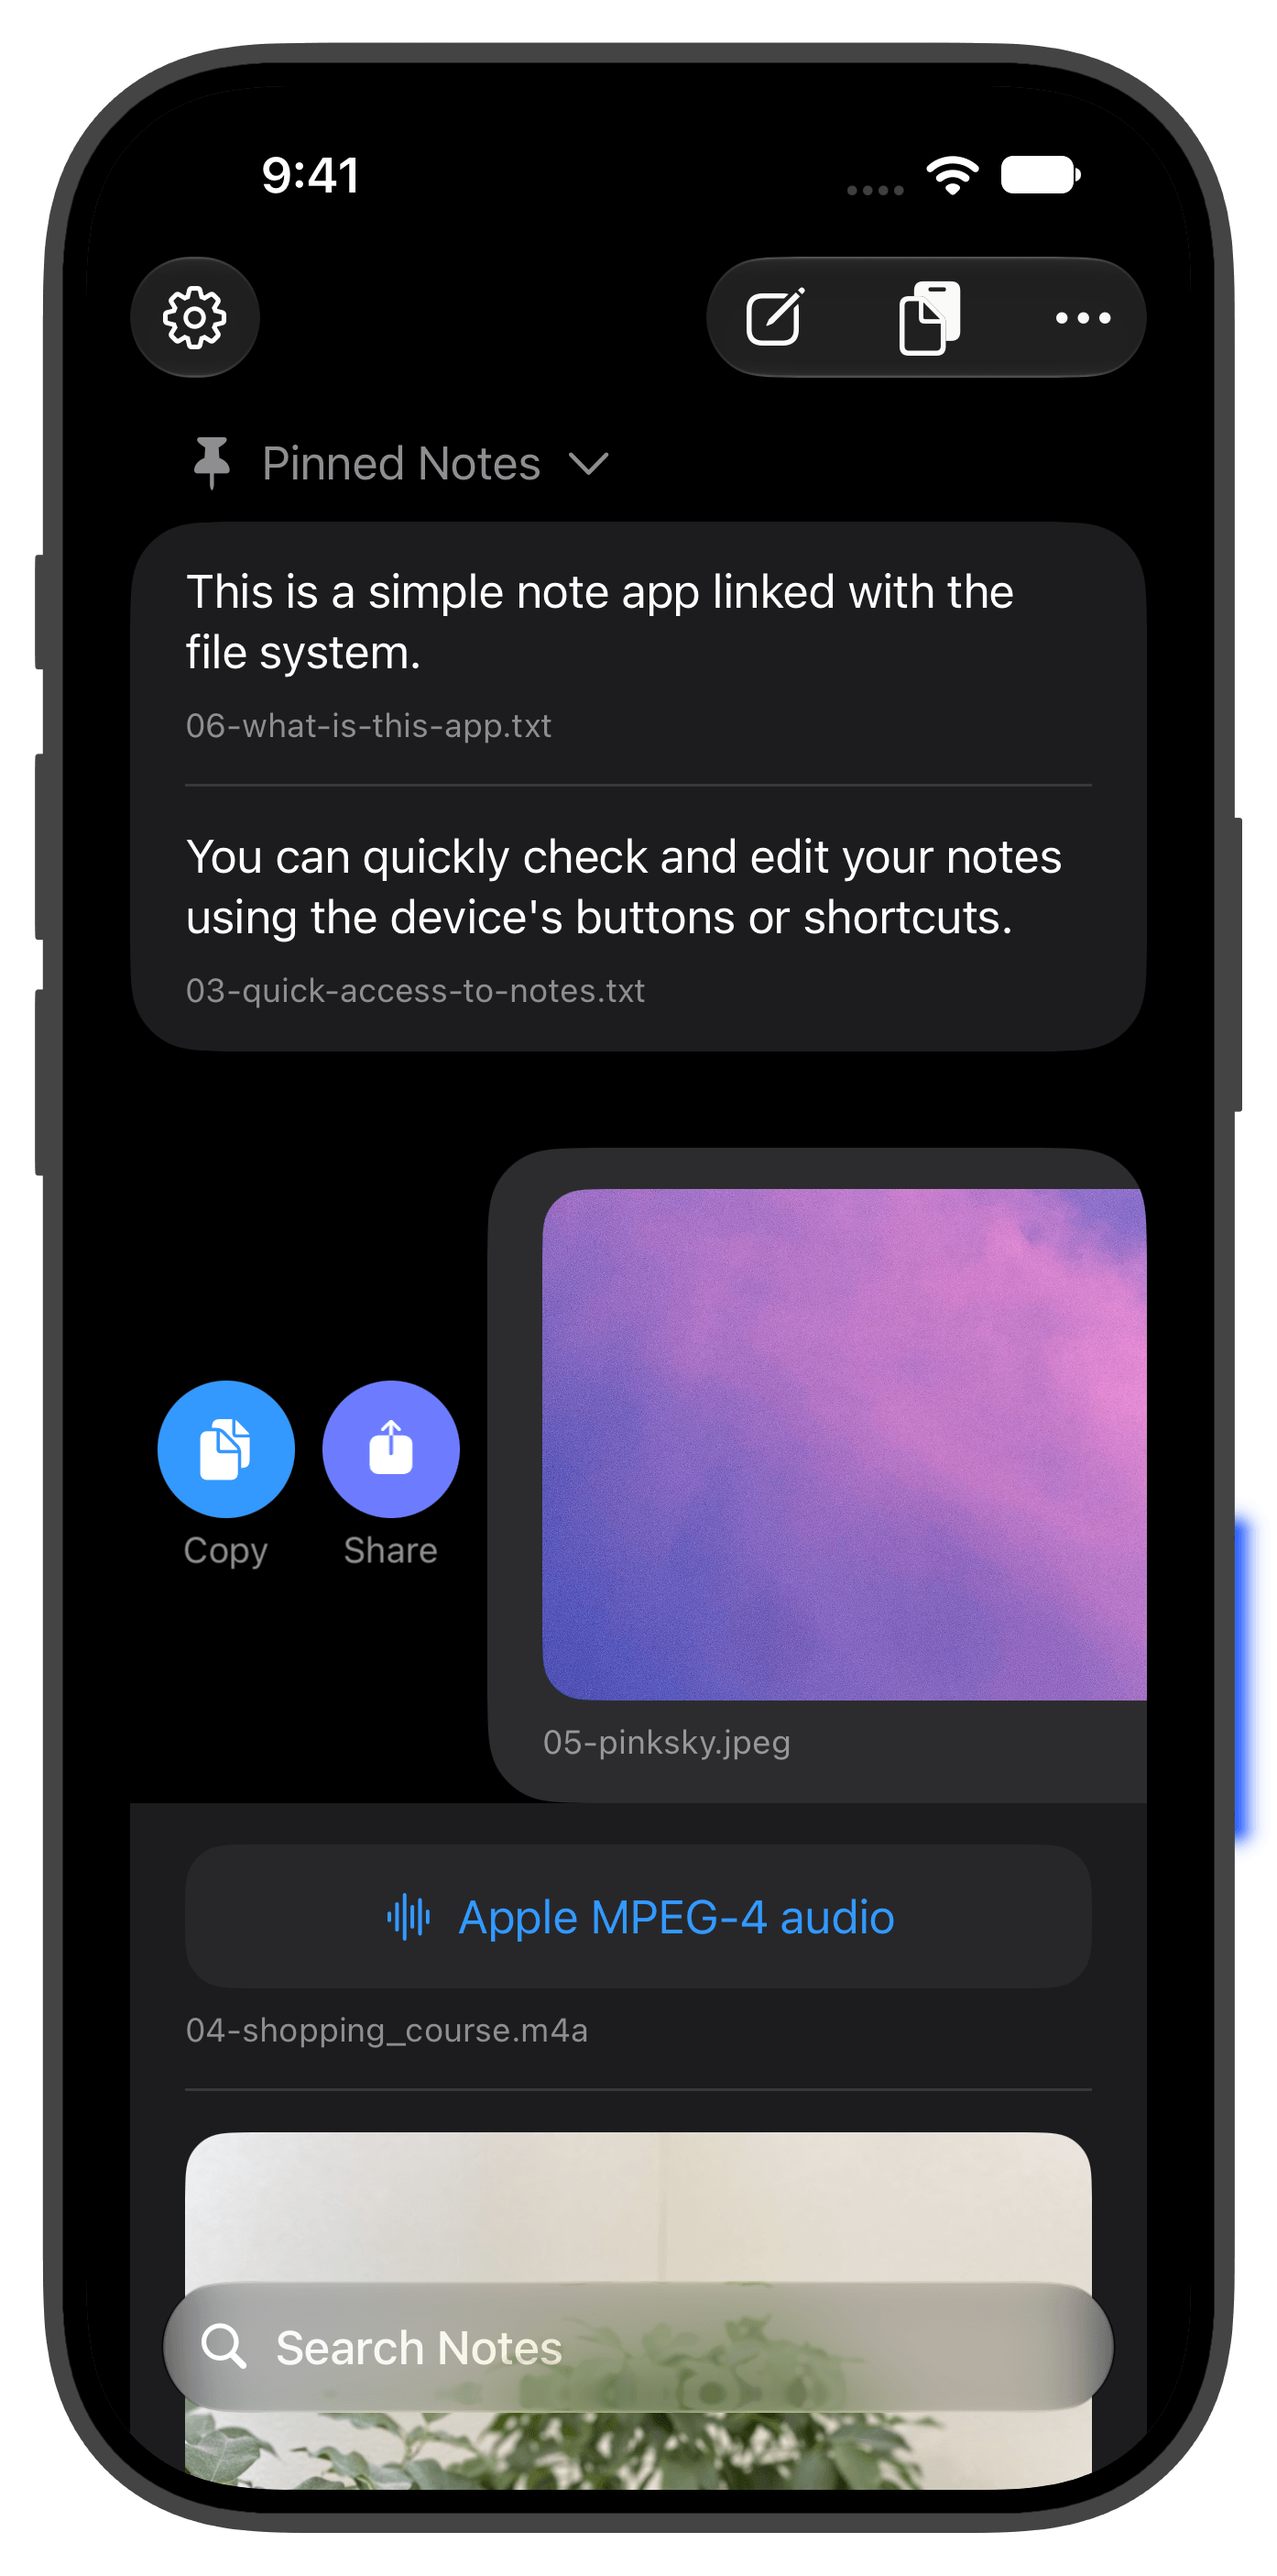
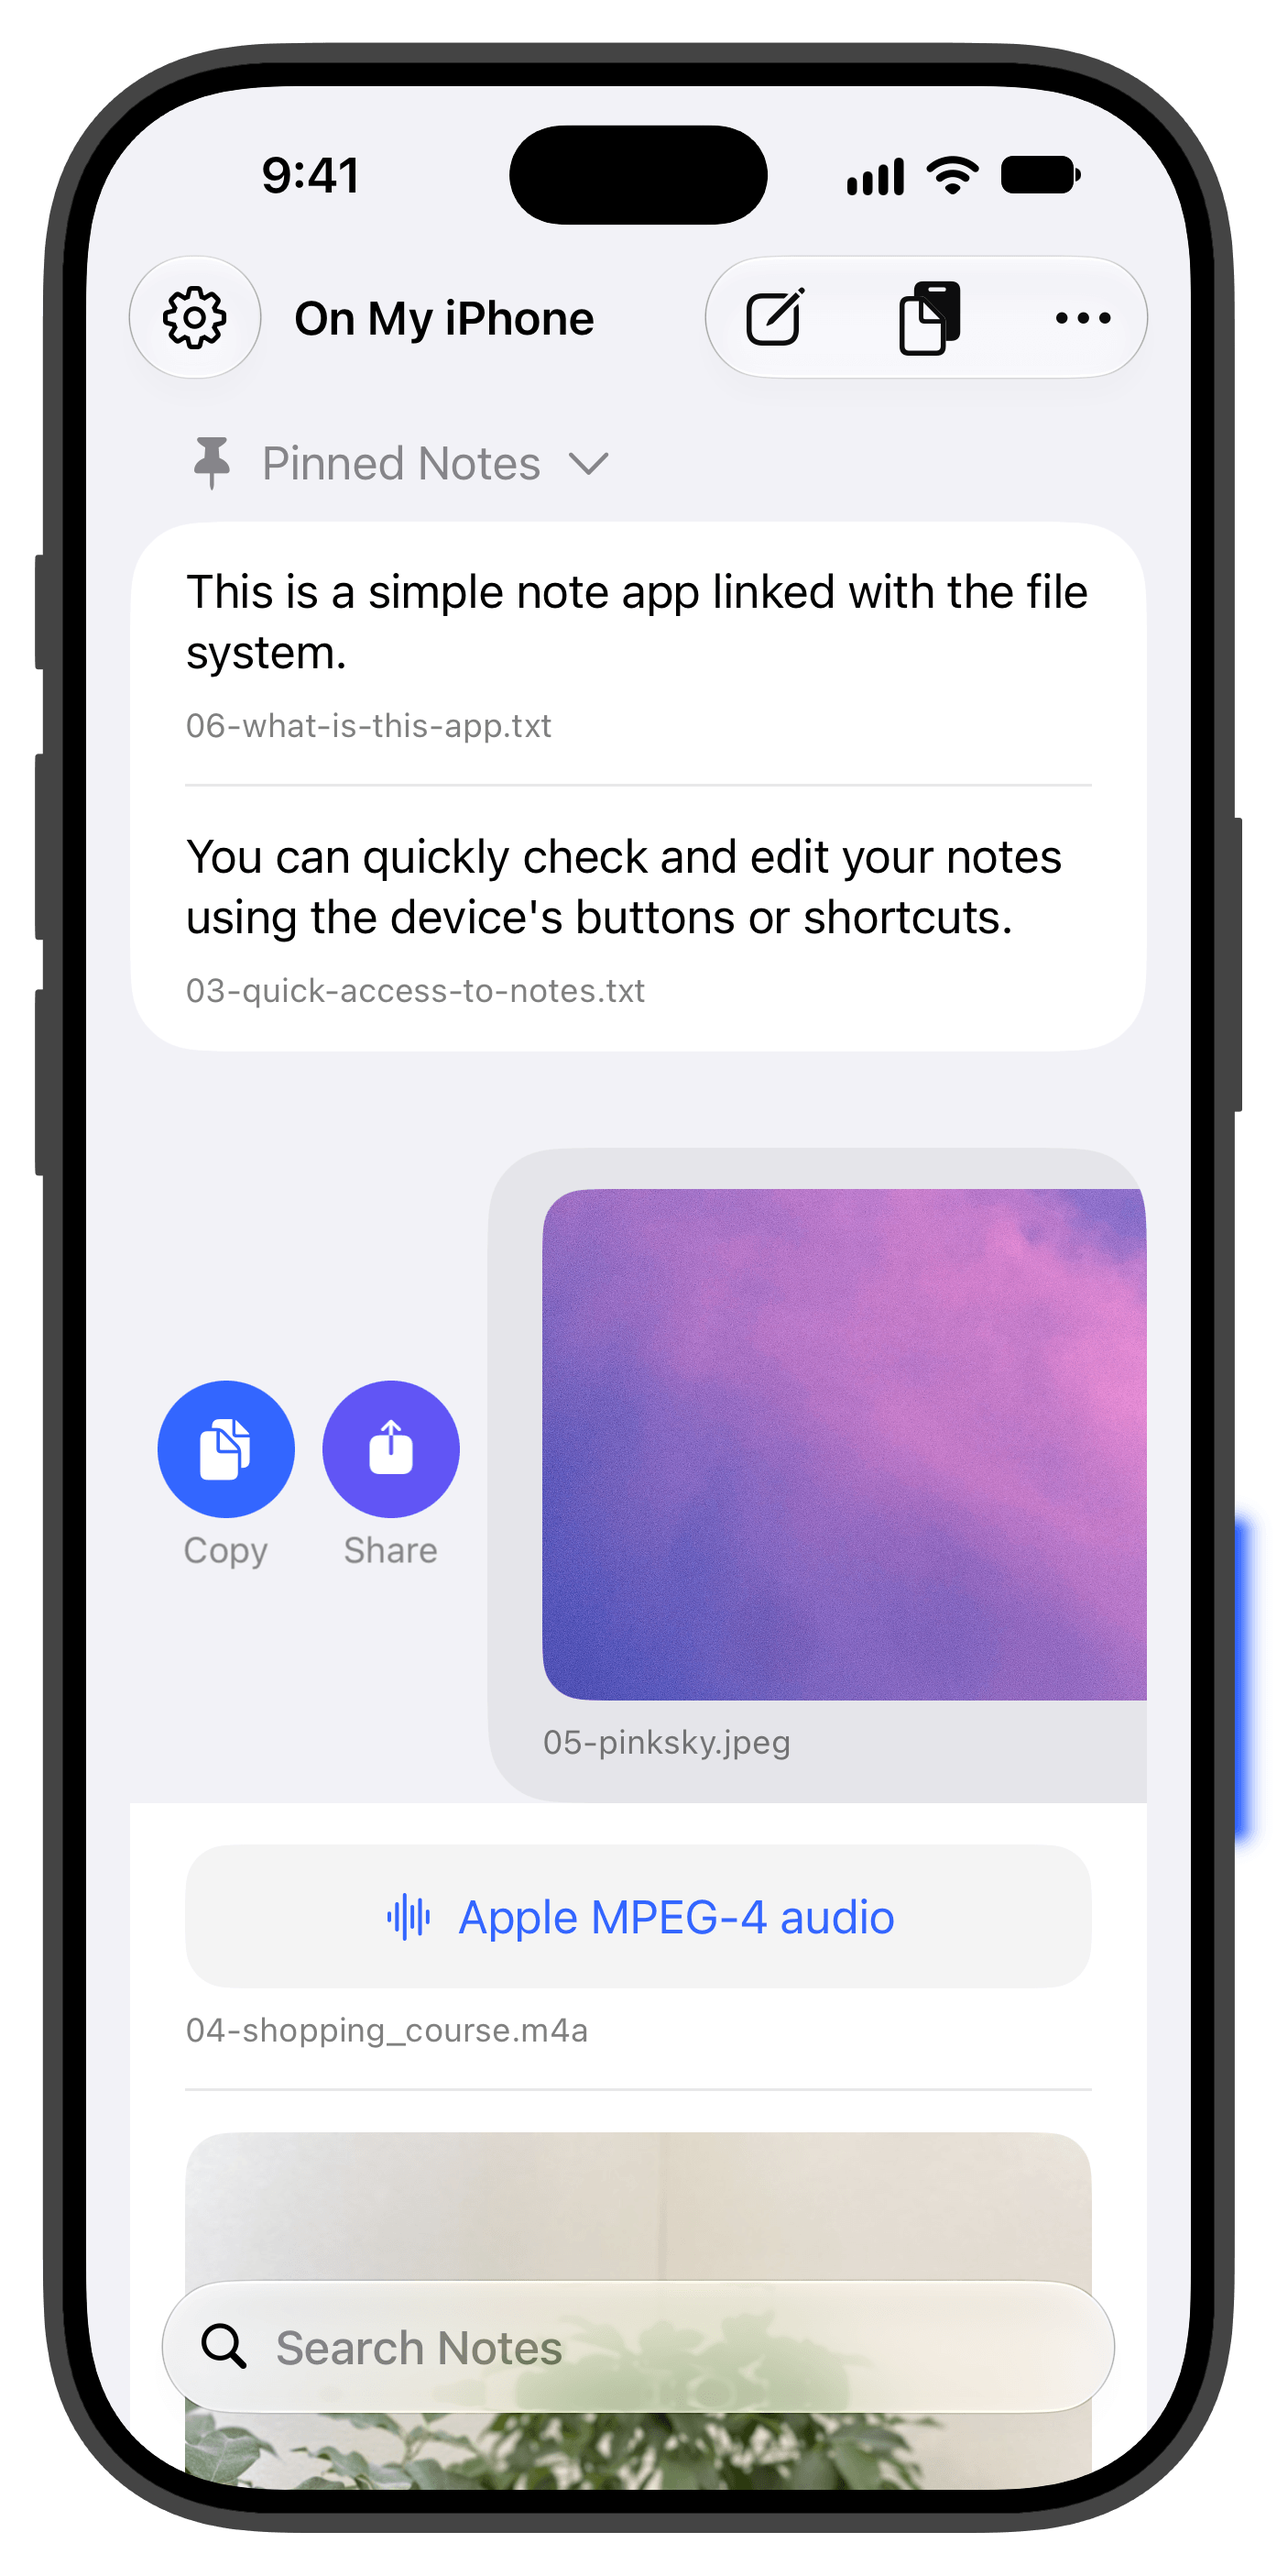
update home app preview

diff --git a/src/pages/home.html b/src/pages/home.html
@@ -114,14 +114,19 @@ scripts:
     <div id="app-preview-main" class="hidden" aria-hidden="true">
       <div id="app-preview-wrapper">
         {% set app_previews = [
-          { id: "app-preview-deflector", src: "/assets/home/previews/deflector.png" },
-          { id: "app-preview-sidesearch", src: "/assets/home/previews/sidesearch.png" },
-          { id: "app-preview-cbnote", src: "/assets/home/previews/cbnote.png" },
+          { id: "app-preview-deflector", src: "/assets/home/previews/deflector.png", darkSrc: "/assets/home/previews/deflector-dark.png" },
+          { id: "app-preview-sidesearch", src: "/assets/home/previews/sidesearch.png", darkSrc: "/assets/home/previews/sidesearch-dark.png" },
+          { id: "app-preview-cbnote", src: "/assets/home/previews/cbnote.png", darkSrc: "/assets/home/previews/cbnote-dark.png" },
           { id: "app-preview-alare", src: "/assets/home/previews/alare.png" }
         ] %}
         {% for preview in app_previews %}
-        <img id="{{ preview.id }}" src="{{ preview.src }}"
-          class="app-preview-image" alt role="none" loading="lazy">
+        <picture>
+          {% if preview.darkSrc %}
+          <source media="(prefers-color-scheme: dark)" srcset="{{ preview.darkSrc }}">
+          {% endif %}
+          <img id="{{ preview.id }}" src="{{ preview.src }}"
+            class="app-preview-image" alt role="none" loading="lazy">
+        </picture>
         {% endfor %}
       </div>
     </div>

diff --git a/src/assets/home/home.scss b/src/assets/home/home.scss
@@ -179,6 +179,12 @@
     container-type: inline-size;
     height: 100lvh;
     position: relative;
+
+    picture {
+      display: block;
+      height: 0;
+      width: 0;
+    }
   }
 
   .app-preview-image {
